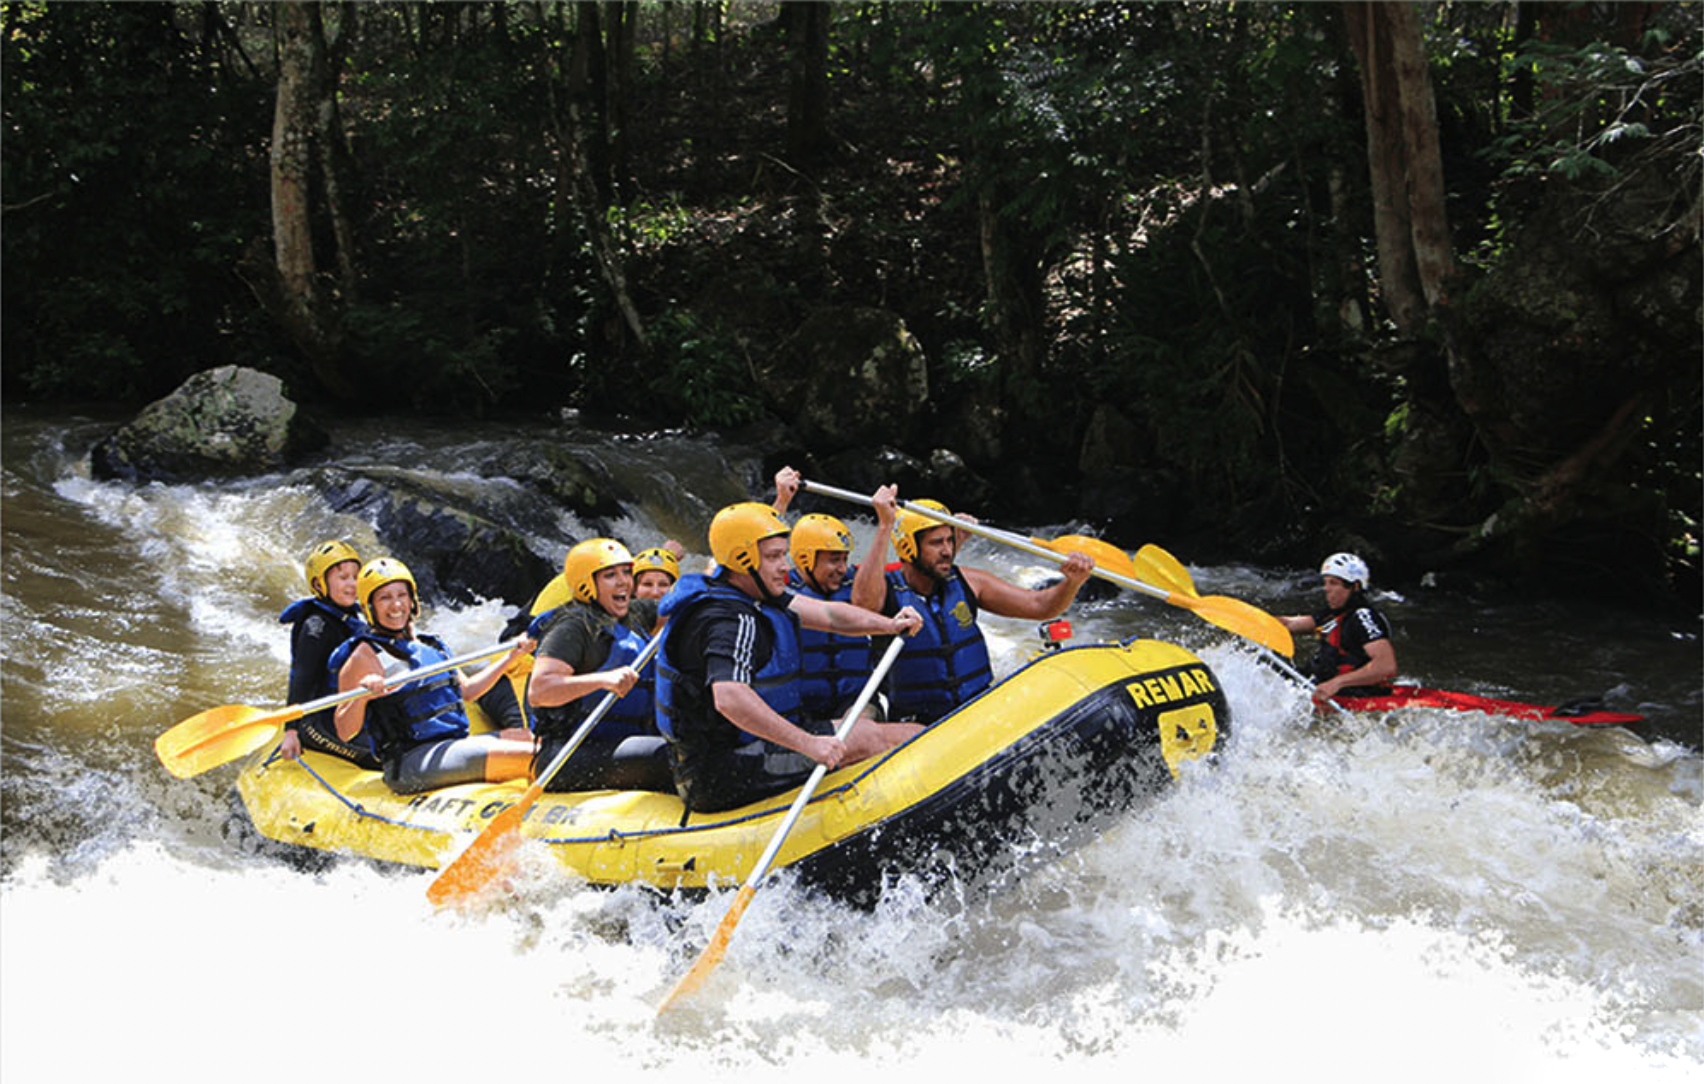
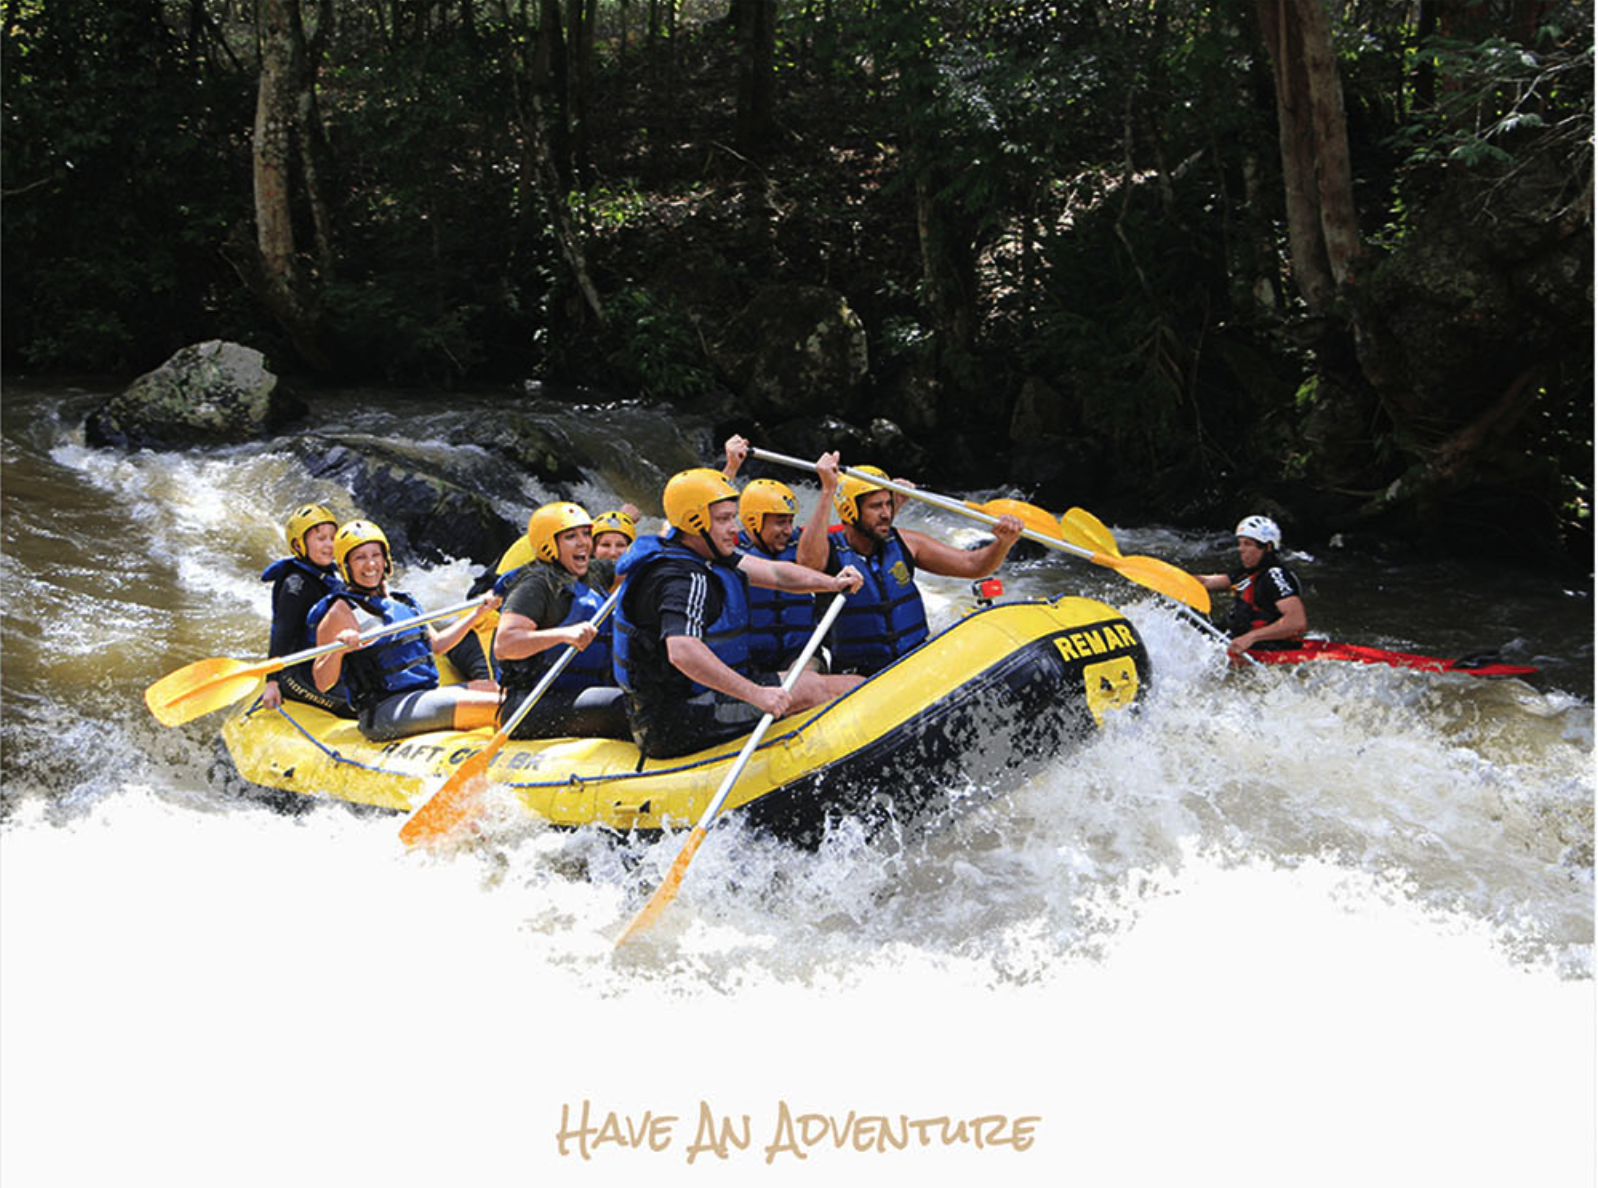
fixed picture

diff --git a/elevator_pitch.html b/elevator_pitch.html
@@ -1,12 +1,129 @@
+
 <!DOCTYPE html>
-<html lang="en">
+<html lang="en-us">
+
 <head>
-    <meta charset="UTF-8">
-    <meta http-equiv="X-UA-Compatible" content="IE=edge">
-    <meta name="viewport" content="width=device-width, initial-scale=1.0">
-    <title>Document</title>
+  <meta charset="utf-8" />
+  <title>Site Plan</title>
+  <link type="text/css" rel="stylesheet" href="styles/elevator_pitch.css" />
 </head>
+
 <body>
-    
+  <header>
+    <h1>River Rafting Site Plan</h1>
+    <h2>Taylor Shaw</h2>
+    <h2>WDD 130-03</h2>
+    <!-- In the header above, add the name of your site, your name and class number. For example if you are in section 3 you would put WDD 130-03 -->
+  </header>
+  <main>
+    <!-- ------------------------Steps 2-5------------------------------ -->
+    <hr />
+    <h2>Overview</h2>
+    <h3>Purpose</h3>
+    <p>The purpose of this website is to advertise the equipment you can use when you go river rafting. We are sure you would love all of the items we have available that are just waiting for you.   </p>
+    <!-- change this -->
+
+    <h3>Audience</h3>
+    <p>This is an advertisement website used to sell rafting equipment. We have oars, lifejackets, inflatable rafts, and more. Please take a look if you are interested. </p>
+    <!-- change this -->
+
+    <hr />
+    <h2>Branding</h2>
+    <h3>Website Logo</h3>
+    <!-- Replace this with some sort of logo for your site.  A logo can be as simple as the name of your site in a nice font :) -->
+    <img src="https://byui-wdd.github.io/wdd130/rafting_images/dryoarlogo.png" alt="Logo image" />
+    <hr />
+    <h2>Style Guide</h2>
+
+    <!-- ------------------------Steps 6-9------------------------------ -->
+
+    <h3>Color Palette</h3>
+    <!--  The colors you choose for a website are one of the most important decisions you will make. Follow the instructions on the activity in Canvas then return and replace the color codes below with the hex color codes (the 6 digit numbers that show at the bottom of each color) for the colors you have chosen below.  You should have at least 2 colors but do not have to fill in all 4 if you do not need them.  -->
+
+    <!-- Copy and paste the URL to your finished palette below. Replace the href value that is there with yours. Make sure to paste it into both the href value and the content text of the <a> tag -->
+    <p>Palette URL:</p>
+    <a href="https://coolors.co/272932-3a546d-4d7ea8-688199-828489"
+      target="_blank">https://coolors.co/396e94-e7c24f-a43312-381d2a-aabd8c</a>
+
+    <table class="colors">
+      <tr>
+        <th>Primary</th>
+        <th>Secondary</th>
+        <th>Accent 1</th>
+        <th>Accent 2</th>
+      </tr>
+      <!-- Replace the numbers in the boxes below with your hex color codes. Then switch to the site-plan.css file and change your colors there as well. -->
+      <tr>
+        <td class="primary">#4D7EA8</td>
+        <td class="secondary">#3A546D</td>
+        <td class="accent1">#828489</td>
+        <td class="accent2"></td>
+      </tr>
+    </table>
+
+    <!-- ------------------------Steps 10-12------------------------------ -->
+
+    <h3>Typography</h3>
+    <!-- Choose a font for your paragraphs (body copy) and headlines. What font(s) have you chosen? Think also about which of your colors above you might use for background and font colors. -->
+
+    <h4>
+      Heading Font: Copperplate
+      <!-- change this -->
+    </h4>
+    <h4>
+      Paragraph Font: Lato
+      <!-- change this -->
+    </h4>
+    <h3>Normal paragraph example</h3>
+    <p>
+      The best Whitewater Rafting in Colorado, White Water Rafting Company
+      offers rafting on the Colorado and Roaring Fork Rivers in Glenwood
+      Springs. Since 1974, we have been family owned and operated, rafting the
+      Shoshone section of Glenwood Canyon and beyond.
+    </p>
+    <h3>Colored paragraph example</h3>
+    <p class="colored">
+      Trips vary from mild and great for families, to trips exclusively for
+      physically fit and experienced rafters. No matter what type of river
+      adventures you are seeking, White Water Rafting Company can make it
+      happen for you.
+    </p>
+
+    <!-- ------------------------Step 13------------------------------ -->
+
+    <h3>Navigation</h3>
+    <!-- Think about how you want your navigation bar to look. In the site-plan.css file change the colors to your colors to get the look you desire. -->
+    <nav>
+      <a href="#">Home</a>
+      <a href="#">Page2</a>
+      <a href="#">Contact Us</a>
+    </nav>
+    <hr />
+    <h2>Site Map</h2>
+    <div class="sitemap">
+      <div class="sm-home">Home</div>
+      <div class="sm-page2">
+        [Page2]
+        <!-- this page will have a name later -->
+      </div>
+      <div class="sm-page3">Contact Us</div>
+
+      <div class="top">&nbsp;</div>
+      <div class="left">&nbsp;</div>
+      <div class="right">&nbsp;</div>
+    </div>
+    <hr />
+    <h2>Wireframes</h2>
+    <!-- Create an additional wireframe for your site. List it here below the Home page wireframe. -->
+
+    <h3>Home</h3>
+
+    <img src="https://byui-wdd.github.io/wdd130/rafting_images/wireframe_home.png" alt="home page wireframe" />
+
+    <h3>[Page 2]</h3>
+
+    <!-- <img src="#" alt="page 2 wireframe"> -->
+  </main>
 </body>
+
 </html>

diff --git a/styles/elevator_pitch.css b/styles/elevator_pitch.css
@@ -1,0 +1,165 @@
+
+/* if you are using any Google fonts change the font names below to your fonts. 
+Any spaces in your font name should be replaced with a +. 
+Fonts are separated by a | */
+@import url('https://fonts.googleapis.com/css?family=IM+Fell+French+Canon+SC|Lato');
+
+:root {
+  /* change the values below to your colors from your palette */
+  --primary-color: #4D7EA8   ;
+  --secondary-color: #3A546D ;
+  --accent1-color: #828489;
+  --accent2-color: black;
+
+  /* change the values below to your chosen font(s) */
+  --heading-font: copperplate, Helvetica, sans-serif;
+  --paragraph-font: Lato, Helvetica, sans-serif;
+
+  /* these colors below should be chosen from among your palette colors above */
+  --headline-color-on-white: #396E94;  /* headlines on a white background */ 
+  --headline-color-on-color: white; /* headlines on a colored background */ 
+  --paragraph-color-on-white: #396E94; /* paragraph text on a white background */ 
+  --paragraph-color-on-color: white; /* paragraph text on a colored background */ 
+  --paragraph-background-color: #396E94  ;
+  --nav-link-color: #396E94;
+  --nav-background-color: #D4AC0D;
+  --nav-hover-link-color: white;
+  --nav-hover-background-color: #396E94;
+}
+
+
+/*  Look around below...but DON'T CHANGE ANYTHING! */
+
+body {
+  max-width: 960px;
+  margin: 0 auto;
+  padding: 4em;
+  font-size: 18px;
+  text-align: center;
+}
+img {
+  display: block;
+  margin: 0 auto;
+  max-width: 300px;
+}
+h1, h2, h3, h4, h5, h6 {
+  font-family: var(--heading-font);
+  color: var(--headline-color-on-white);
+}
+h2 {
+  text-align: center;
+}
+hr {
+  height: 3px;
+  margin: 35px 0;
+  background: var(--accent1-color);
+}
+header {
+  padding: 1em;
+  text-align: center;
+  color: var(--paragraph-color-on-color);
+  background-color: var(--paragraph-background-color);
+}
+header > h1, header > h2 {
+  color: var(--headline-color-on-color);
+}
+p {
+  font-family: var(--paragraph-font);
+  color: var(--paragraph-color);
+  padding: 1em;
+}
+.colors {
+  width: 100%;
+  min-width: 350px;
+  margin: 30px auto;
+  text-align: center;
+}
+.colors th {
+  background-color: #999;
+}
+.colors td{
+  width: 25%;
+  height: 3em;
+}
+.primary {
+  background-color: var(--primary-color);
+}
+.secondary {
+  background-color: var(--secondary-color);
+}
+.accent1 {
+  background-color: var(--accent1-color);
+}
+.accent2{
+  background-color: var(--accent2-color);
+}
+p.colored {
+  background-color: var(--paragraph-background-color);
+  color: var(--paragraph-color-on-color);
+}
+nav {
+  background-color: var(--nav-background-color);
+  line-height: 3em;
+  text-align: center;
+  font-size: 1.2em;
+}
+nav  {
+  list-style-type: none;
+  display: flex;
+}
+nav a {
+  padding:1em;
+  min-width: 120px;
+  text-decoration: none;
+  padding: 10px;
+}
+nav a:link, nav a:visited {
+  color: var(--nav-link-color);
+}
+nav a:hover {
+  color: var(--nav-hover-link-color);
+  background-color: var(--nav-hover-background-color);
+}
+.sitemap {
+  display: grid;
+  justify-content: center;
+
+  grid-template-columns: repeat(6, 15%);
+  grid-template-rows: 3em 1.5em 1.5em 3em;
+  grid-template-areas: ". . home home . ."
+    ". . . top . ."
+    ". left left right right ."
+    "page2 page2 . . page3 page3";
+}
+.sitemap > div {
+  text-align: center;
+}
+.sm-home {
+  grid-area: home;
+  background-color: #ccc;
+  line-height: 3em;
+}
+.sm-page2 {
+  grid-area: page2;
+  background-color: #ccc;
+  line-height: 3em;
+}
+.sm-page3 {
+  grid-area: page3;
+  background-color: #ccc;
+  line-height: 3em;
+}
+.top {
+  grid-area: top;
+  border-left: 1px solid;
+}
+.left {
+  grid-area: left;
+  border-top: 1px solid;
+  border-left: 1px solid;
+}
+.right {
+  grid-area: right;
+  border-top: 1px solid;
+  border-right: 1px solid;
+}

diff --git a/rafting.html b/rafting.html
@@ -14,20 +14,15 @@
         <nav>
             <a href="#">Home</a>
             <a href="#">Page2</a>
+            <a href="#">Site Plan</a>
             <a href="#">Contact Us</a>
         </nav>
     </header>
   <main>
     <!-- ------------------------Steps 2-5------------------------------ -->
     <hr />
-    <h2>Overview</h2>
-    <h3>Purpose</h3>
-    <p>The purpose of this website is to advertise the equipment you can use when you go river rafting. We are sure you would love all of the items we have available that are just waiting for you.   </p>
-    <!-- change this -->
-
-    <h3>Audience</h3>
-    <p>This is an advertisement website used to sell rafting equipment. We have oars, lifejackets, inflatable rafts, and more. Please take a look if you are interested. </p>
-    <!-- change this -->
+    <img style="max-width:fit-content;width:100%"src="https://github.com/LazyBones1313/wwr/blob/main/images/Rafting.png?raw=true" alt="Logo image" />
+    <h3 style="font-size: 36px;font-family: Raleway, Arial, sans-serif;">Have an Adventure</h3>   <!-- change this -->
 
     <hr />
     <h2>Branding</h2>
